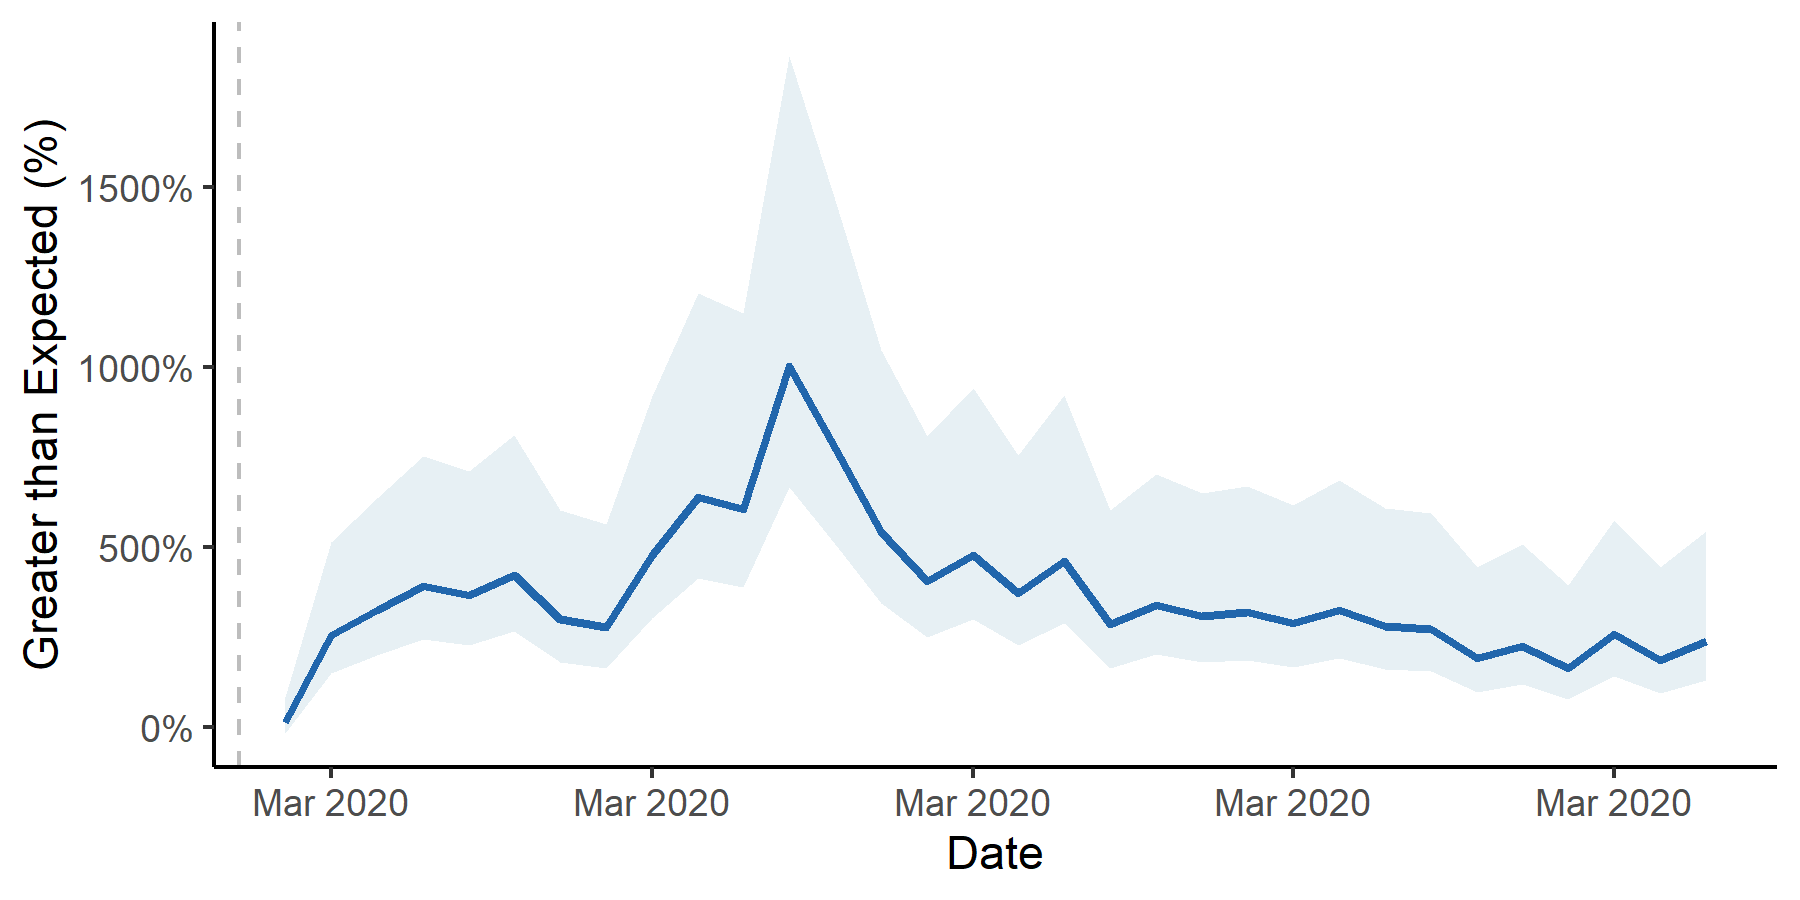
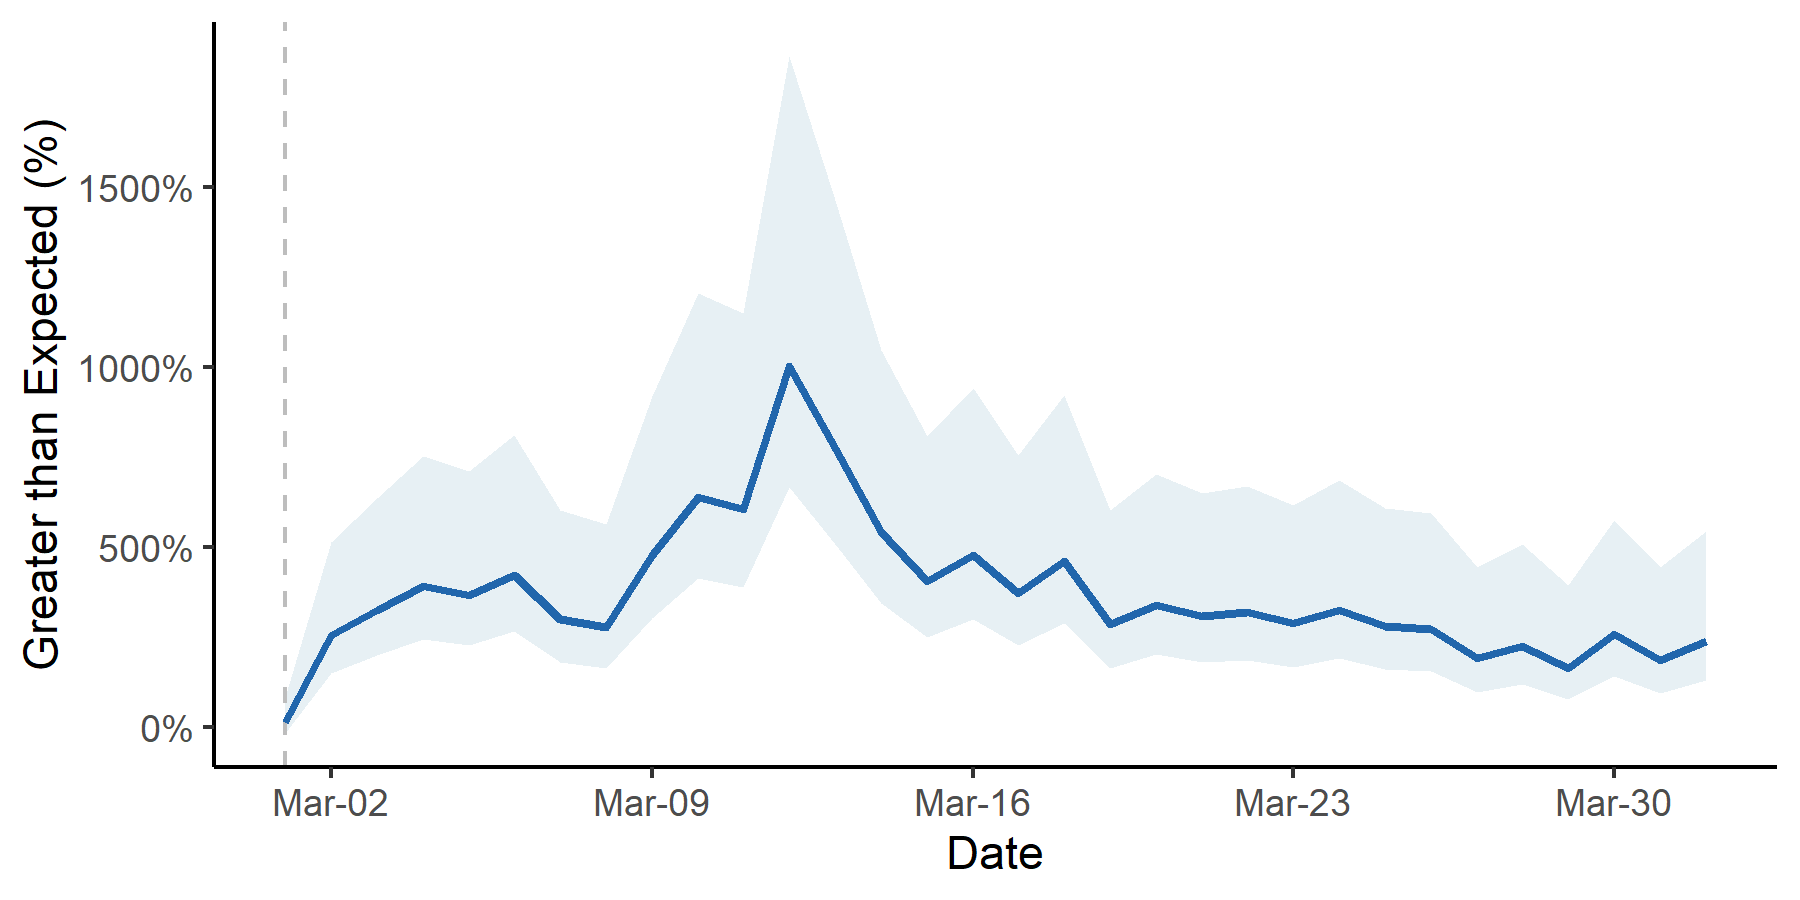
added to README

diff --git a/README.md b/README.md
@@ -6,7 +6,7 @@ This project is a work-in-progress. It works in some cases but may not work in m
 
 ## Usage
 
-Before you begin using this package, pull the Google Trends data using the [gtrendspy package for Python3](https://www.github.com/tlcaputi/gtrendspy). For example, you may run the following. I will use the data from this command to explain the package. Unfortunately, I cannot share the raw data.
+Before you begin using this package, pull the Google Trends data using the [gtrendspy package for Python3](https://www.github.com/tlcaputi/gtrendspy). For example, we will use the following data pull to demonstrate the features of the package. Unfortunately, I cannot share the raw data.
 
 ```python
 
@@ -186,6 +186,20 @@ panC <- arima_ciplot(
 )
 ```
 
+
+Note that because the outputs from these functions are ggplots, you can use ggplot functions to customize them even after they are outputted.
+
+```r
+panC <- panC +
+  scale_x_date(
+    limits = c(ymd("2020-03-01"), ymd("2020-04-01")),
+    date_breaks = "1 day",
+    labels = function(x) ifelse(as.numeric(x) %% 2 != 0, "", format(x, format = "%b %d"))
+  ) +
+  theme(axis.text.x = element_text(angle = 45, vjust = 1.0, hjust = 1.0))
+```
+
+
 Finally, you can merge the plots together to create a single figure.
 
 ```r
@@ -272,7 +286,7 @@ state_list <- state_arima(
 ```
 
 
-Using the output from `state_arima`, you can create a spaghetti plot showing the percent difference between the ARIMA-fitted values and the actual values with `state_arima_spaghetti`.
+Using the output from `state_arima`, you can create a spaghetti plot showing the percent difference between the ARIMA-fitted values and the actual values with `state_arima_spaghetti`. It doesn't look too great for this example (likely because "hand washing" was a rare search term before COVID19), but this kind of plot could be useful for other search terms.
 
 
 ```r
@@ -281,18 +295,19 @@ panE <- state_arima_spaghetti(
   interrupt = "2020-03-01", # should be the same as state_arima
 
   ## Plot Arguments
-  beginplot = ymd(interrupt) - 7, # Start date for the plot. If T, beginning of data
-  endplot = "2020-04-01", # End date for the plot. If T, end of data
+  beginplot = "2020-03-01", # Start date for the plot. If T, beginning of data
+  endplot = "2020-04-03", # End date for the plot. If T, end of data
   title = NULL, # If NULL, no Title
   xlab = "Date", # x axis label
-  lbreak = "1 month", # Space between x-axis tick marks
-  xfmt = date_format("%b %Y"), # Format of dates on x axis
-  ylab = "Query Fraction (Per 10 Million Searches)", # y axis label
+  lbreak = "1 week", # Space between x-axis tick marks
+  xfmt = date_format("%b-%d"), # Format of dates on x axis
+  ylab = "Query Fraction\n(Per 10 Million Searches)", # y axis label
   lwd = 1, # Width of the line
+  ylim = c(NA, NA), # y axis limts
 
   ## Spaghetti specific adjustments
   spaghettialpha = 0.25, # How transparent do you want the spaghetti lines
-  states_with_labels = c("CA", "NY", "US"), ## Add labels to the end of these
+  states_with_labels = c("US"), ## Add labels to the end of these
   states_to_exclude = c("IA"), ## Don't include these
 
   ## Set a colorscheme
@@ -308,6 +323,9 @@ panE <- state_arima_spaghetti(
   width = 6, # Width in inches
   height = 3 # Height in inches
 )
+
+panE <- panE + coord_cartesian(ylim = c(-10, 40))
+
 ```
 
 
